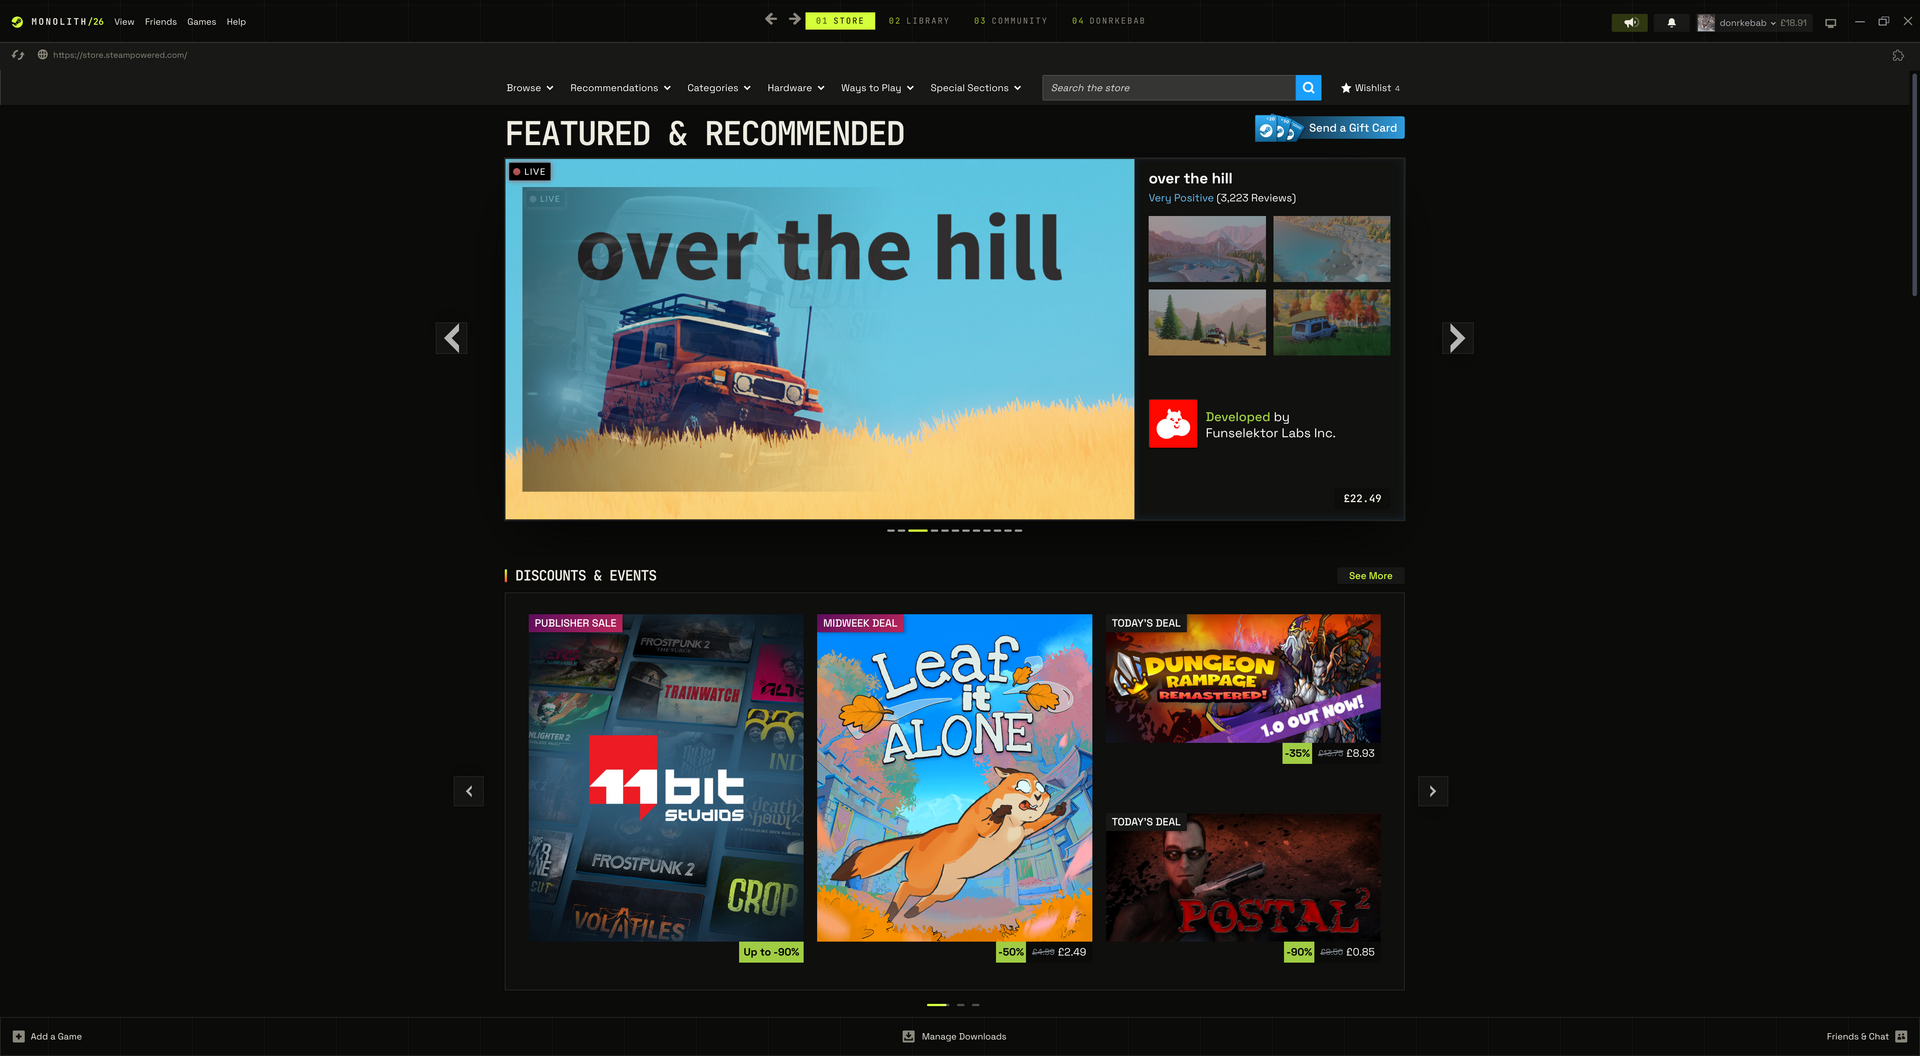
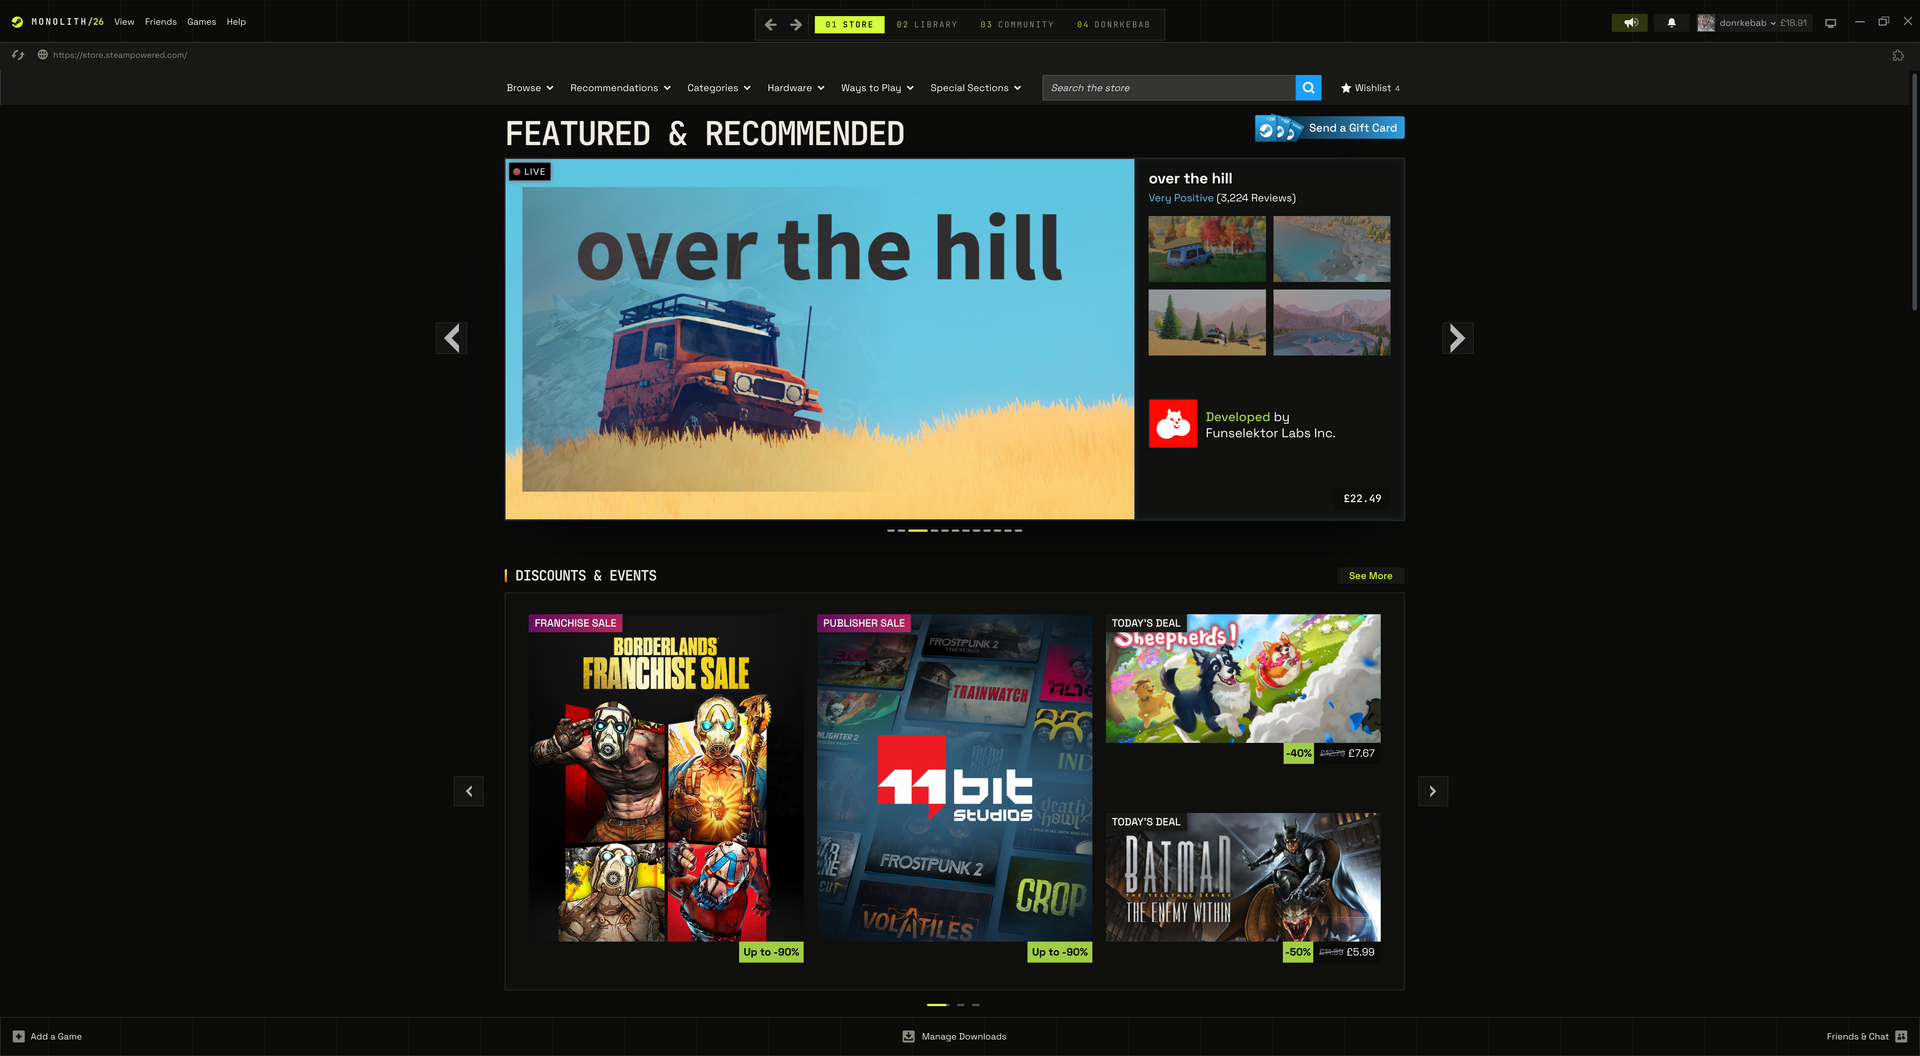
Full uncropped game art, solid play button, segmented nav bar, refreshed screenshots

diff --git a/mx/main.css b/mx/main.css
@@ -832,6 +832,7 @@ button.DialogButton:disabled,button.DialogButton:disabled:hover,button.DialogBut
 :root{--store-h1:44px;--arrow-r:0;--price-bg:#d4ff3a;--price-fg:#0b0b0a}
 :root{--cover-r:0;--shelf-size:30px;--cover-glow:8px 8px 0 #d4ff3a;--rail-bg:#0b0b0a}
 :root{--login-h:40px;--avatar-r:0;--bubble-r:0;--login-glow:6px 6px 0 var(--acc);--stat-size:22px}
+:root{--play-r:0px}
 html,body{-webkit-font-smoothing:antialiased}
 body::before{content:"";position:fixed;inset:-20%;pointer-events:none;z-index:0;contain:strict;background:var(--fx)}
 ._3AhYljPF4e4E8LaBt-FoY0{border-radius:var(--r);transition:.1s}
@@ -854,8 +855,13 @@ body::before{content:"";position:fixed;inset:-20%;pointer-events:none;z-index:0;
 .bSKGlAJG2UVWTsntEJY2v::after{display:inline-flex;align-items:center}
 ._3ydigb6zZAjJ0JCDgHwSYA._2AzIX5kl9k6JnxLfR5H4kX{min-width:180px;gap:8px}
 ._39oUCO1OuizVPwcnnv88no ._1Ky59qmywxOUtNcI1cgmkX{align-items:center;padding-left:10px}
-.NZMJ6g2iVnFsOOp-lDmIP{position:relative}
 ._3LKQ3S_yqrebeNLF6aeiog{position:relative;border-radius:6px}
+.q-hero-fade{position:absolute;pointer-events:none;z-index:1;background:linear-gradient(transparent 75%,var(--bg-solid) 100%)}
+._3ydigb6zZAjJ0JCDgHwSYA._2AzIX5kl9k6JnxLfR5H4kX:has(.SVGIcon_Play):hover,._2AzIX5kl9k6JnxLfR5H4kX._2q-gZ3XJzlvSGHSF-GvSmi:hover{filter:brightness(1.12)}
+._3Z3ohQ8-1NKnCZkbS6fvy ._2D64jIEK7wpUR_NlObDW76{align-items:center;gap:2px;border-radius:var(--nav-r,999px);background:var(--surface-solid);border:1px solid var(--line);box-shadow:inset 0 1px 0 var(--hi,#fff1)}
+._3Z3ohQ8-1NKnCZkbS6fvy ._2D64jIEK7wpUR_NlObDW76 svg{border-radius:var(--nav-r,999px);transition:background .1s,color .1s}
+._3Z3ohQ8-1NKnCZkbS6fvy ._2D64jIEK7wpUR_NlObDW76 svg:hover{background:var(--hover)}
+._3Z3ohQ8-1NKnCZkbS6fvy ._2D64jIEK7wpUR_NlObDW76 svg:nth-of-type(2){margin-right:6px;border-right:1px solid var(--line);border-radius:var(--nav-r,999px) 0 0 var(--nav-r,999px)}
 :root{--ease:cubic-bezier(.2,.9,.25,1)}
 ._3fLo166MlaNqP8r8tTyRz,._1nTD-C3qRvYp3RSRZSegz3>div,._3vCzSrrXZzZjVJFZNg9SGu{transition:border-color .1s var(--ease)}
 @keyframes rise{from{opacity:0;transform:translateY(18px) scale(.985);}to{opacity:1;transform:none}}
@@ -957,6 +963,7 @@ body::before{animation:none}
 :root{--login-h:40px;--avatar-r:0;--bubble-r:0;--login-glow:6px 6px 0 var(--acc);--stat-size:22px}
 .Rp8QOGJ2DypeDniMnRBhr ._37ANMR1DAeBJYXulW34A2S::before{content:"// ";color:var(--acc)}
 ._1rDh5rXSFZJOqCa4UpnI4z ._3xRRJfD2xy95i9NhJxLTp0{flex-direction:row-reverse}
+:root{--play-r:0px}
 @layer theme{
 :root{--st-background:8,8,7!important;--st-color-1:13,13,12!important;--st-color-2:22,22,20!important;--st-color-3:17,17,15!important;--st-color-4:19,19,17!important;--st-color-5:40,40,36!important;--st-color-6:34,34,31!important;--st-accent-1:212,255,58!important;--st-accent-2:241,238,228!important;--st-blue:255,77,31!important;--st-blue-hover:255,105,66!important;--st-green:150,210,40!important;--st-green-hover:170,230,60!important;--st-red:255,60,40!important;--st-red-hover:255,90,70!important;--st-yellow:255,200,0!important;--st-yellow-hover:255,215,60!important;--st-border-radius:0px!important}
 :root{--gpColor-Blue:var(--acc)!important;--gpColor-Yellow:var(--acc2)!important}
@@ -994,16 +1001,28 @@ body :is(input,textarea,:is([contenteditable=""],[contenteditable=true],[content
 ._39oUCO1OuizVPwcnnv88no ._1Ky59qmywxOUtNcI1cgmkX{height:56px!important}
 ._1rDh5rXSFZJOqCa4UpnI4z{margin-top:6px!important}
 ._39oUCO1OuizVPwcnnv88no>*,._39oUCO1OuizVPwcnnv88no>*>*{align-self:center!important}
-.NZMJ6g2iVnFsOOp-lDmIP{overflow:hidden!important;background:#000!important}
-.NZMJ6g2iVnFsOOp-lDmIP .QlR9EFwTdUNm_J5vx54_Z,.NZMJ6g2iVnFsOOp-lDmIP ._2aPcBP45fdgOK22RN0jbhm{position:static!important}
-.NZMJ6g2iVnFsOOp-lDmIP .HNbe3eZf6H7dtJ042x1vM.HSQWw9HUAP6jtA2OZjS-u,.NZMJ6g2iVnFsOOp-lDmIP .HNbe3eZf6H7dtJ042x1vM._3_IUVzR9tpG_JKEjhwXEAb,.NZMJ6g2iVnFsOOp-lDmIP ._1ssCErQIw1aTDS36tCKZJy{display:none!important}
-.NZMJ6g2iVnFsOOp-lDmIP .HNbe3eZf6H7dtJ042x1vM:not(.HSQWw9HUAP6jtA2OZjS-u):not(._3_IUVzR9tpG_JKEjhwXEAb){position:absolute!important;top:0!important;left:50%!important;right:auto!important;transform:translateX(-50%)!important;width:min(100%,1660px)!important;max-width:none!important;height:100%!important;margin:0!important;object-fit:cover!important;object-position:center!important;-webkit-mask-image:linear-gradient(90deg,transparent 0,#000 10%,#000 90%,transparent 100%)!important;mask-image:linear-gradient(90deg,transparent 0,#000 10%,#000 90%,transparent 100%)!important;-webkit-mask-size:100% 100%!important}
 ._3x1HklzyDs4TEjACrRO2tB,._3x1HklzyDs4TEjACrRO2tB ._1ijTaXJJA5YWl_fW2IxcaT{background:var(--rail-bg,var(--surface-solid))!important}
 ._3LKQ3S_yqrebeNLF6aeiog{align-self:center!important;height:28px!important}
 ._3LKQ3S_yqrebeNLF6aeiog ._34bQcTHo5QKzuujoEyU1tm{position:static!important;top:auto!important}
 ._3x1HklzyDs4TEjACrRO2tB :focus,._3x1HklzyDs4TEjACrRO2tB :focus-visible,._3x1HklzyDs4TEjACrRO2tB .gpfocus{outline:none!important;box-shadow:none!important}
 ._3x1HklzyDs4TEjACrRO2tB ._1ijTaXJJA5YWl_fW2IxcaT,._3x1HklzyDs4TEjACrRO2tB .ReactVirtualized__Grid{border:0!important;outline:0!important}
 ._26Gmfe09NRsnF7eprTZYdY{background:var(--surface-solid)!important;border-bottom:1px solid var(--line)!important;padding-inline-start:16px!important}
+.NZMJ6g2iVnFsOOp-lDmIP{overflow:hidden!important;background:#000!important}
+.NZMJ6g2iVnFsOOp-lDmIP .HNbe3eZf6H7dtJ042x1vM.HSQWw9HUAP6jtA2OZjS-u,.NZMJ6g2iVnFsOOp-lDmIP .HNbe3eZf6H7dtJ042x1vM._3_IUVzR9tpG_JKEjhwXEAb{display:none!important}
+.NZMJ6g2iVnFsOOp-lDmIP img.q-hero{-webkit-mask-image:none!important;mask-image:none!important;max-width:none!important;max-height:none!important;margin:0!important;transform:none!important;object-fit:fill!important}
+.NZMJ6g2iVnFsOOp-lDmIP ._2DVdg_N1qLNDdnxJqN-RBX,.NZMJ6g2iVnFsOOp-lDmIP ._3NBxSLAZLbbbnul8KfDFjw{z-index:3!important}
+._3ydigb6zZAjJ0JCDgHwSYA._2AzIX5kl9k6JnxLfR5H4kX:has(.SVGIcon_Play),._3ydigb6zZAjJ0JCDgHwSYA._2AzIX5kl9k6JnxLfR5H4kX:has(.SVGIcon_Download),._2AzIX5kl9k6JnxLfR5H4kX._2q-gZ3XJzlvSGHSF-GvSmi{background:var(--acc)!important;background-image:none!important;animation:none!important;box-shadow:none!important;border:0!important}
+._3ydigb6zZAjJ0JCDgHwSYA._2AzIX5kl9k6JnxLfR5H4kX:has(.SVGIcon_Play),._3ydigb6zZAjJ0JCDgHwSYA._2AzIX5kl9k6JnxLfR5H4kX:has(.SVGIcon_Download){border-radius:var(--play-r,10px) 0 0 var(--play-r,10px)!important;color:var(--btn-pri-fg)!important;font-weight:800!important;letter-spacing:.04em!important}
+._3ydigb6zZAjJ0JCDgHwSYA._2AzIX5kl9k6JnxLfR5H4kX:has(.SVGIcon_Play) *,._3ydigb6zZAjJ0JCDgHwSYA._2AzIX5kl9k6JnxLfR5H4kX:has(.SVGIcon_Download) *{color:var(--btn-pri-fg)!important;fill:var(--btn-pri-fg)!important;filter:none!important;opacity:1!important}
+._2AzIX5kl9k6JnxLfR5H4kX._2q-gZ3XJzlvSGHSF-GvSmi{border-radius:0 var(--play-r,10px) var(--play-r,10px) 0!important;margin-left:2px!important;color:var(--btn-pri-fg)!important}
+._2AzIX5kl9k6JnxLfR5H4kX._2q-gZ3XJzlvSGHSF-GvSmi *{fill:var(--btn-pri-fg)!important;color:var(--btn-pri-fg)!important}
+._3ydigb6zZAjJ0JCDgHwSYA._2AzIX5kl9k6JnxLfR5H4kX:has(.SVGIcon_Play):hover,._2AzIX5kl9k6JnxLfR5H4kX._2q-gZ3XJzlvSGHSF-GvSmi:hover{transform:none!important}
+._3Z3ohQ8-1NKnCZkbS6fvy ._2D64jIEK7wpUR_NlObDW76{display:flex!important;padding:4px!important}
+._3Z3ohQ8-1NKnCZkbS6fvy ._2D64jIEK7wpUR_NlObDW76 svg{padding:6px 8px!important;color:var(--mute)!important;fill:var(--mute)!important}
+._3Z3ohQ8-1NKnCZkbS6fvy ._2D64jIEK7wpUR_NlObDW76 svg:hover{color:var(--text)!important;fill:var(--text)!important}
+._3Z3ohQ8-1NKnCZkbS6fvy ._7AlhCx3XGzBeIrQaCneUD{padding:6px 16px!important;margin:0!important}
+._3Z3ohQ8-1NKnCZkbS6fvy ._7AlhCx3XGzBeIrQaCneUD._1gqEjB5QsKT_NftD1dEsdZ{background:var(--acc)!important;box-shadow:none!important}
+._3Z3ohQ8-1NKnCZkbS6fvy ._7AlhCx3XGzBeIrQaCneUD._1gqEjB5QsKT_NftD1dEsdZ ._19axKcqYRuaJ8vdYKYmtTQ{color:var(--btn-pri-fg)!important;font-weight:700!important}
 ._3fLo166MlaNqP8r8tTyRz,._1nTD-C3qRvYp3RSRZSegz3>div,._3vCzSrrXZzZjVJFZNg9SGu{background:var(--surface)!important;border:1px solid var(--line)!important;border-radius:var(--rx)!important;box-shadow:inset 0 1px 0 var(--hi),0 1px 2px #0006,0 8px 20px -14px #000!important}
 ._1nTD-C3qRvYp3RSRZSegz3>div:hover{border-color:var(--line-hi)!important}
 ._23SnllqT_AqZ1C_QHcNQ4Z{font-family:var(--font-display)!important;font-size:var(--sh-size,15px)!important;letter-spacing:var(--sh-ls,-.01em)!important}

diff --git a/mx/main.js b/mx/main.js
@@ -3,3 +3,19 @@
 const o=document.createElement('div');o.id='q-load';o.innerHTML='<div class="q-mark"></div><div class="q-bar"></div>';
 const add=()=>document.body&&!o.isConnected&&document.body.appendChild(o);document.body?add():addEventListener('DOMContentLoaded',add,{once:true});
 const t0=Date.now(),iv=setInterval(()=>{if(document.querySelector('.Rp8QOGJ2DypeDniMnRBhr')){clearInterval(iv);o.remove();return}add();if(document.querySelector('._1rDh5rXSFZJOqCa4UpnI4z ._3x1HklzyDs4TEjACrRO2tB,._1rDh5rXSFZJOqCa4UpnI4z ._2B7WsaKHDSav8vpQUxkVRB,._1rDh5rXSFZJOqCa4UpnI4z .NZMJ6g2iVnFsOOp-lDmIP')||Date.now()-t0>8000){clearInterval(iv);o.classList.add('out');setTimeout(()=>o.remove(),350)}},100)})();
+// game-page hero: show the whole art (no crop) centred in the *visible* banner, black fades on both ends
+(()=>{let raf=0;const place=()=>{raf=0;
+ const hero=document.querySelector('.NZMJ6g2iVnFsOOp-lDmIP');if(!hero)return;
+ const img=[...hero.querySelectorAll('img.HNbe3eZf6H7dtJ042x1vM')].find(i=>!i.classList.contains('HSQWw9HUAP6jtA2OZjS-u')&&!i.classList.contains('_3_IUVzR9tpG_JKEjhwXEAb'));if(!img||!img.naturalWidth)return;
+ for(let p=img.parentElement;p&&p!==hero;p=p.parentElement){for(const [k,v] of [['overflow','visible'],['position','static'],['transform','none'],['clip-path','none'],['-webkit-mask-image','none'],['mask-image','none']])p.style.setProperty(k,v,'important')}
+ if(getComputedStyle(hero).position==='static')hero.style.setProperty('position','relative','important');
+ const op=hero,hr=hero.getBoundingClientRect(),pr=hr;
+ let vl=hr.left,vr=hr.right;for(let p=hero.parentElement;p&&p!==document.body;p=p.parentElement){const s=getComputedStyle(p);if(s.overflowX!=='visible'){const r=p.getBoundingClientRect();vl=Math.max(vl,r.left);vr=Math.min(vr,r.left+p.clientWidth)}}
+ const w=vr-vl,ar=img.naturalWidth/img.naturalHeight,iw=w,ih=Math.round(w/ar);
+ hero.style.setProperty('height',ih+'px','important');hero.style.setProperty('max-height','none','important');hero.style.setProperty('min-height','0','important');
+ const h=ih;
+ img.classList.add('q-hero');Object.assign(img.style,{position:'absolute',left:(vl-pr.left)+'px',top:'0px',width:iw+'px',height:ih+'px'});
+ let f=op.querySelector(':scope>.q-hero-fade');if(!f){f=document.createElement('div');f.className='q-hero-fade';op.appendChild(f)}
+ Object.assign(f.style,{left:img.style.left,top:img.style.top,width:iw+'px',height:ih+'px'})};
+ const q=()=>{if(!raf)raf=requestAnimationFrame(place)};
+ addEventListener('resize',q);new MutationObserver(q).observe(document.documentElement,{childList:true,subtree:true});document.addEventListener('load',q,true)})();

diff --git a/mx/opt/accent-ice.css b/mx/opt/accent-ice.css
@@ -1,4 +1,4 @@
 @layer opt{
-:root{--acc:#7fe7ff!important;--acc2:#f1eee4!important;--ring:#7fe7ff40!important;--spot:#7fe7ff1f!important;--line-hi:#7fe7ff66!important;--sel:#7fe7ff!important;--sel-fg:#0b0b0a!important;--nav-sel-fg:#0b0b0a!important;--btn-pri:linear-gradient(110deg,#7fe7ff,#f1eee4,#7fe7ff)!important;--btn-pri-fg:#0b0b0a!important;--price-bg:#7fe7ff!important;--price-fg:#0b0b0a!important;--st-accent-1:127,231,255!important;--st-accent-2:241,238,228!important;--st-blue:127,231,255!important;--st-blue-hover:241,238,228!important}
+:root{--acc:#7fe7ff!important;--acc2:#f1eee4!important;--ring:#7fe7ff40!important;--spot:#7fe7ff1f!important;--line-hi:#7fe7ff66!important;--sel:#7fe7ff!important;--sel-fg:#0b0b0a!important;--nav-sel-fg:#0b0b0a!important;--btn-pri:#7fe7ff!important;--btn-pri-fg:#0b0b0a!important;--price-bg:#7fe7ff!important;--price-fg:#0b0b0a!important;--st-accent-1:127,231,255!important;--st-accent-2:241,238,228!important;--st-blue:127,231,255!important;--st-blue-hover:241,238,228!important}
 :root{--nav-sel-bg:#7fe7ff!important}
 }

diff --git a/mx/opt/accent-ultraviolet.css b/mx/opt/accent-ultraviolet.css
@@ -1,4 +1,4 @@
 @layer opt{
-:root{--acc:#a78bff!important;--acc2:#d4ff3a!important;--ring:#a78bff40!important;--spot:#a78bff1f!important;--line-hi:#a78bff66!important;--sel:#a78bff!important;--sel-fg:#0b0b0a!important;--nav-sel-fg:#0b0b0a!important;--btn-pri:linear-gradient(110deg,#a78bff,#d4ff3a,#a78bff)!important;--btn-pri-fg:#0b0b0a!important;--price-bg:#a78bff!important;--price-fg:#0b0b0a!important;--st-accent-1:167,139,255!important;--st-accent-2:212,255,58!important;--st-blue:167,139,255!important;--st-blue-hover:212,255,58!important}
+:root{--acc:#a78bff!important;--acc2:#d4ff3a!important;--ring:#a78bff40!important;--spot:#a78bff1f!important;--line-hi:#a78bff66!important;--sel:#a78bff!important;--sel-fg:#0b0b0a!important;--nav-sel-fg:#0b0b0a!important;--btn-pri:#a78bff!important;--btn-pri-fg:#0b0b0a!important;--price-bg:#a78bff!important;--price-fg:#0b0b0a!important;--st-accent-1:167,139,255!important;--st-accent-2:212,255,58!important;--st-blue:167,139,255!important;--st-blue-hover:212,255,58!important}
 :root{--nav-sel-bg:#a78bff!important}
 }

diff --git a/mx/opt/accent-signal.css b/mx/opt/accent-signal.css
@@ -1,4 +1,4 @@
 @layer opt{
-:root{--acc:#ff4d1f!important;--acc2:#ffd400!important;--ring:#ff4d1f40!important;--spot:#ff4d1f1f!important;--line-hi:#ff4d1f66!important;--sel:#ff4d1f!important;--sel-fg:#ffffff!important;--nav-sel-fg:#ffffff!important;--btn-pri:linear-gradient(110deg,#ff4d1f,#ffd400,#ff4d1f)!important;--btn-pri-fg:#ffffff!important;--price-bg:#ff4d1f!important;--price-fg:#ffffff!important;--st-accent-1:255,77,31!important;--st-accent-2:255,212,0!important;--st-blue:255,77,31!important;--st-blue-hover:255,212,0!important}
+:root{--acc:#ff4d1f!important;--acc2:#ffd400!important;--ring:#ff4d1f40!important;--spot:#ff4d1f1f!important;--line-hi:#ff4d1f66!important;--sel:#ff4d1f!important;--sel-fg:#ffffff!important;--nav-sel-fg:#ffffff!important;--btn-pri:#ff4d1f!important;--btn-pri-fg:#ffffff!important;--price-bg:#ff4d1f!important;--price-fg:#ffffff!important;--st-accent-1:255,77,31!important;--st-accent-2:255,212,0!important;--st-blue:255,77,31!important;--st-blue-hover:255,212,0!important}
 :root{--nav-sel-bg:#ff4d1f!important}
 }

diff --git a/mx/popup.css b/mx/popup.css
@@ -54,6 +54,7 @@
 :root{--store-h1:44px;--arrow-r:0;--price-bg:#d4ff3a;--price-fg:#0b0b0a}
 :root{--cover-r:0;--shelf-size:30px;--cover-glow:8px 8px 0 #d4ff3a;--rail-bg:#0b0b0a}
 :root{--login-h:40px;--avatar-r:0;--bubble-r:0;--login-glow:6px 6px 0 var(--acc);--stat-size:22px}
+:root{--play-r:0px}
 :root{--ease:cubic-bezier(.2,.9,.25,1)}
 ._1OOQPJx0nCNP9ME9toCmV7 ._3-H47wPl1Ng3lh7xGZOPIg{overflow:hidden;position:relative;animation:toast .35s var(--ease) both}
 ._1OOQPJx0nCNP9ME9toCmV7 ._3-H47wPl1Ng3lh7xGZOPIg::before{content:"";position:absolute;left:0;top:0;bottom:0;width:3px;background:linear-gradient(var(--acc),var(--acc2))}

diff --git a/mx/webkit.css b/mx/webkit.css
@@ -63,6 +63,7 @@
 :root{--store-h1:44px;--arrow-r:0;--price-bg:#d4ff3a;--price-fg:#0b0b0a}
 :root{--cover-r:0;--shelf-size:30px;--cover-glow:8px 8px 0 #d4ff3a;--rail-bg:#0b0b0a}
 :root{--login-h:40px;--avatar-r:0;--bubble-r:0;--login-glow:6px 6px 0 var(--acc);--stat-size:22px}
+:root{--play-r:0px}
 /* store / community pages */
 html,body,body.v6,.responsive_page_frame,.page_background_holder{background:var(--bg)!important;color:var(--text)!important;font-family:var(--font)!important}
 ::selection{background:var(--acc);color:var(--bg-solid)}

diff --git a/mx/root.css b/mx/root.css
@@ -15,3 +15,4 @@
 :root{--store-h1:44px;--arrow-r:0;--price-bg:#d4ff3a;--price-fg:#0b0b0a}
 :root{--cover-r:0;--shelf-size:30px;--cover-glow:8px 8px 0 #d4ff3a;--rail-bg:#0b0b0a}
 :root{--login-h:40px;--avatar-r:0;--bubble-r:0;--login-glow:6px 6px 0 var(--acc);--stat-size:22px}
+:root{--play-r:0px}
